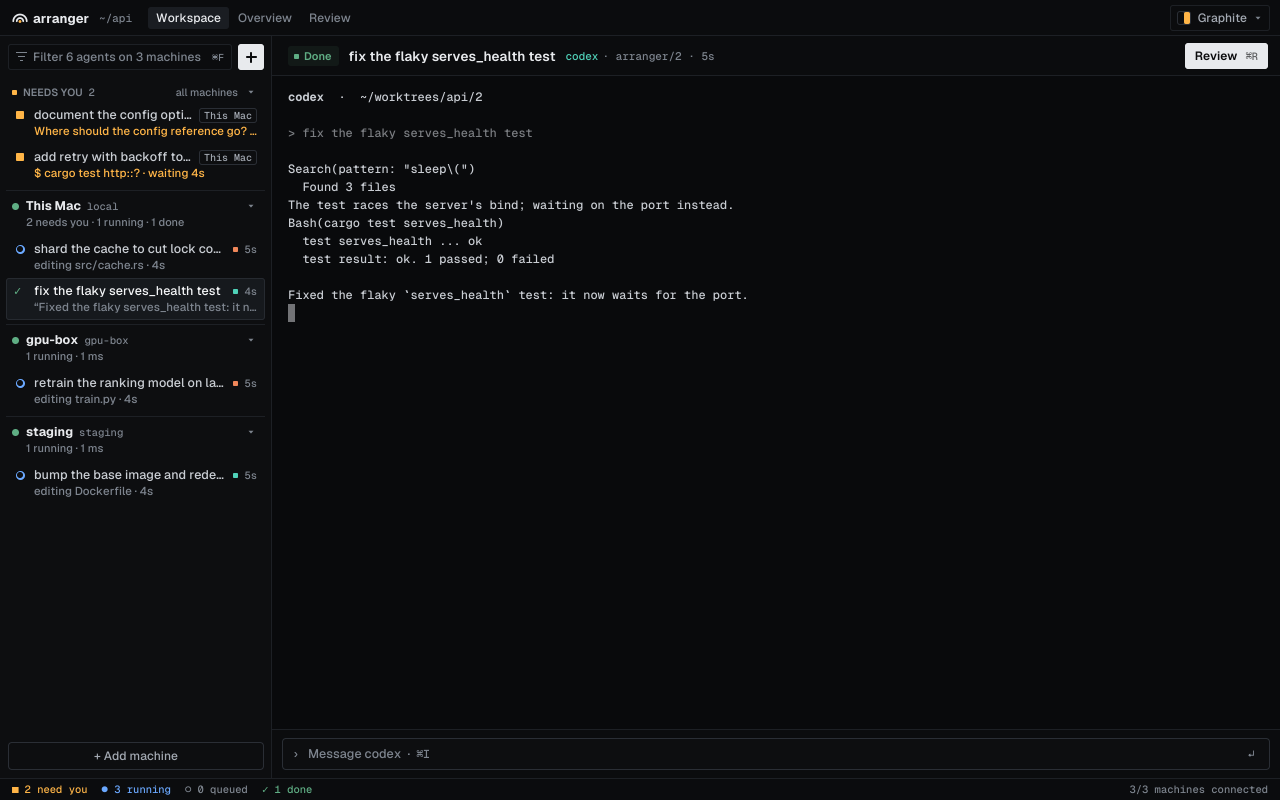
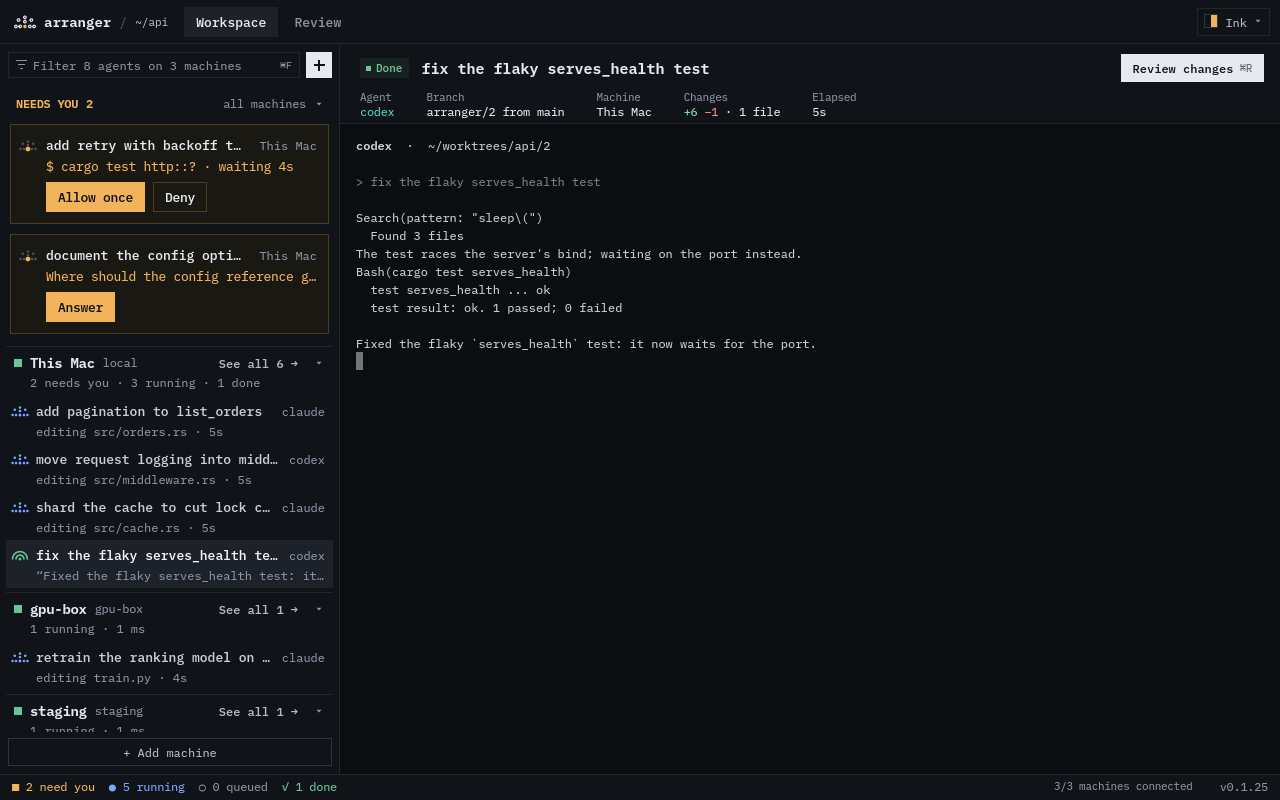
Add light/dark mode toggle
* Update arranger screenshot

diff --git a/index.html b/index.html
@@ -5,10 +5,11 @@
 <meta name="viewport" content="width=device-width, initial-scale=1, viewport-fit=cover">
 <link rel="icon" type="image/svg+xml" href="favicon.svg">
 <title>arranger</title>
+<script>try { const t = localStorage.getItem('theme'); if (t) document.documentElement.dataset.theme = t; } catch {}</script>
 
 <link rel="stylesheet" href="https://fonts.googleapis.com/css2?family=Geist:wght@400;500;600;700&family=Geist+Mono:wght@400;500&display=swap">
 <style>
-/* Layout: concert-hall stage. Seating chart hero, then flat sharp panels on a graphite floor. Single dark look by choice. */
+/* Layout: concert-hall stage. Seating chart hero, then flat sharp panels on a graphite floor. Dark by default; light follows the system or the nav toggle. */
 :root {
   --floor: #16181c;
   --panel: #1d2025;
@@ -22,6 +23,14 @@
   --mono: "Geist Mono", ui-monospace, SFMono-Regular, Menlo, monospace;
   color-scheme: dark;
 }
+@media (prefers-color-scheme: light) { :root:not([data-theme="dark"]) {
+  --floor: #f5f2eb; --panel: #fffdf8; --line: #e2ddd2; --ink: #1b1c20; --mute: #6b6e76;
+  --amber: #a35a00; --blue: #2563c9; --green: #2e7d4f; color-scheme: light;
+} }
+:root[data-theme="light"] {
+  --floor: #f5f2eb; --panel: #fffdf8; --line: #e2ddd2; --ink: #1b1c20; --mute: #6b6e76;
+  --amber: #a35a00; --blue: #2563c9; --green: #2e7d4f; color-scheme: light;
+}
 * { box-sizing: border-box; border-radius: 0 !important; }
 body { margin: 0; background: var(--floor); color: var(--ink); font: 15px/1.6 var(--display); }
 .wrap { max-width: 1120px; margin: 0 auto; padding-left: max(16px, env(safe-area-inset-left, 0px)); padding-right: max(16px, env(safe-area-inset-right, 0px)); }
@@ -32,9 +41,15 @@ nav { border-bottom: 1px solid var(--line); }
 nav .wrap { display: flex; align-items: center; gap: 24px; padding-block: 14px; }
 .brand { display: flex; align-items: baseline; line-height: 1; gap: 10px; font-weight: 700; font-size: 19px; letter-spacing: -0.03em; text-decoration: none; }
 .brand svg { width: 42px; height: auto; }
-nav .links { margin-left: auto; display: flex; gap: 20px; font-size: 13px; color: var(--mute); }
+nav .links { margin-left: auto; display: flex; align-items: center; gap: 20px; font-size: 13px; color: var(--mute); }
 nav .links a { text-decoration: none; }
 nav .links a:hover { color: var(--ink); }
+.theme { border: 1px solid var(--line); background: none; color: var(--mute); font: 13px var(--mono); width: 30px; height: 26px; padding: 0; cursor: pointer; }
+.theme:hover { color: var(--ink); }
+.crop .light { display: none; }
+@media (prefers-color-scheme: light) { :root:not([data-theme="dark"]) .crop .light { display: block; } :root:not([data-theme="dark"]) .crop .dark { display: none; } }
+:root[data-theme="light"] .crop .light { display: block; }
+:root[data-theme="light"] .crop .dark { display: none; }
 
 .hero .wrap { display: grid; grid-template-columns: 1fr 1.1fr; gap: 48px; align-items: center; padding-block: 72px 56px; }
 .eyebrow { font: 500 12px var(--mono); letter-spacing: 0.08em; text-transform: uppercase; color: var(--amber); }
@@ -84,7 +99,7 @@ pre .p { color: var(--amber); }
 .shot { display: grid; grid-template-columns: 1fr 1fr; border: 1px solid var(--line); }
 .shot > * { min-width: 0; }
 .crop { overflow: hidden; border-right: 1px solid var(--line); background: var(--panel); aspect-ratio: 640 / 800; max-width: 100%; }
-.crop img { display: block; width: 200%; max-width: none; height: auto; }
+.crop img { display: block; width: 200%; max-width: none; height: auto; -webkit-mask-image: linear-gradient(to right, #000 38%, transparent 50%); mask-image: linear-gradient(to right, #000 38%, transparent 50%); }
 .weight { padding: 32px; display: grid; gap: 28px; align-content: center; }
 .weight h2 { margin: 0; }
 .weight p { margin: 0; color: var(--mute); max-width: 44ch; }
@@ -138,7 +153,7 @@ footer .wrap { display: flex; flex-wrap: wrap; gap: 16px; justify-content: space
 <body>
 <nav><div class="wrap">
   <a class="brand" href="#top"><svg viewBox="188 332 648 372" aria-hidden="true"><g fill="var(--ink)"><circle cx="223" cy="656" r="30"/><circle cx="237" cy="567" r="30"/><circle cx="278" cy="486" r="30"/><circle cx="342" cy="422" r="30"/><circle cx="423" cy="381" r="30"/><circle cx="512" cy="367" r="30"/><circle cx="601" cy="381" r="30"/><circle cx="682" cy="422" r="30"/><circle cx="746" cy="486" r="30"/><circle cx="787" cy="567" r="30"/><circle cx="801" cy="656" r="30"/><circle cx="316" cy="656" r="30"/><circle cx="335" cy="571" r="30"/><circle cx="390" cy="503" r="30"/><circle cx="468" cy="465" r="30"/><circle cx="556" cy="465" r="30"/><circle cx="634" cy="503" r="30"/><circle cx="689" cy="571" r="30"/><circle cx="708" cy="656" r="30"/><circle cx="409" cy="656" r="30"/><circle cx="439" cy="583" r="30"/><circle cx="512" cy="553" r="30"/><circle cx="585" cy="583" r="30"/><circle cx="615" cy="656" r="30"/></g><circle cx="512" cy="656" r="48" fill="var(--amber)"/></svg>arranger</a>
-  <div class="links"><a href="#how">How it works</a><a href="#keys">Keys</a><a href="https://github.com/manosriram/arranger">GitHub</a></div>
+  <div class="links"><a href="#how">How it works</a><a href="#keys">Keys</a><a href="https://github.com/manosriram/arranger">GitHub</a><button class="theme" id="theme" type="button" aria-label="Toggle light and dark">◐</button></div>
 </div></nav>
 
 <header class="hero" id="top"><div class="wrap">
@@ -161,7 +176,7 @@ footer .wrap { display: flex; flex-wrap: wrap; gap: 16px; justify-content: space
 
 <section><div class="wrap">
   <div class="shot">
-    <div class="crop"><img src="./screenshot-dark.png" alt="The arranger sidebar: six agents on three machines, two waiting on you"></div>
+    <div class="crop"><img class="dark" src="./screenshot-dark.png" alt="The arranger sidebar: eight agents on three machines, two waiting on you"><img class="light" src="./screenshot.png" alt="The arranger sidebar: eight agents on three machines, two waiting on you"></div>
     <div class="weight">
       <h2>A full orchestra on a light stand.</h2>
       <p>Native Rust from daemon to window. No webview, no Electron, no browser engine idling in the background. The agents use the memory; arranger barely does.</p>
@@ -282,6 +297,14 @@ footer .wrap { display: flex; flex-wrap: wrap; gap: 16px; justify-content: space
     const ins = mode.classList.toggle('ins');
     mode.textContent = ins ? 'INSERT' : 'NORMAL';
   }, 2400);
+
+  // Theme: system by default; the toggle pins the opposite of what's showing.
+  const root = document.documentElement;
+  document.getElementById('theme').addEventListener('click', () => {
+    const light = root.dataset.theme ? root.dataset.theme === 'light' : matchMedia('(prefers-color-scheme: light)').matches;
+    root.dataset.theme = light ? 'dark' : 'light';
+    try { localStorage.setItem('theme', root.dataset.theme); } catch {}
+  });
 
   document.getElementById('copy').addEventListener('click', e => {
     const text = document.getElementById('cmd').textContent;
